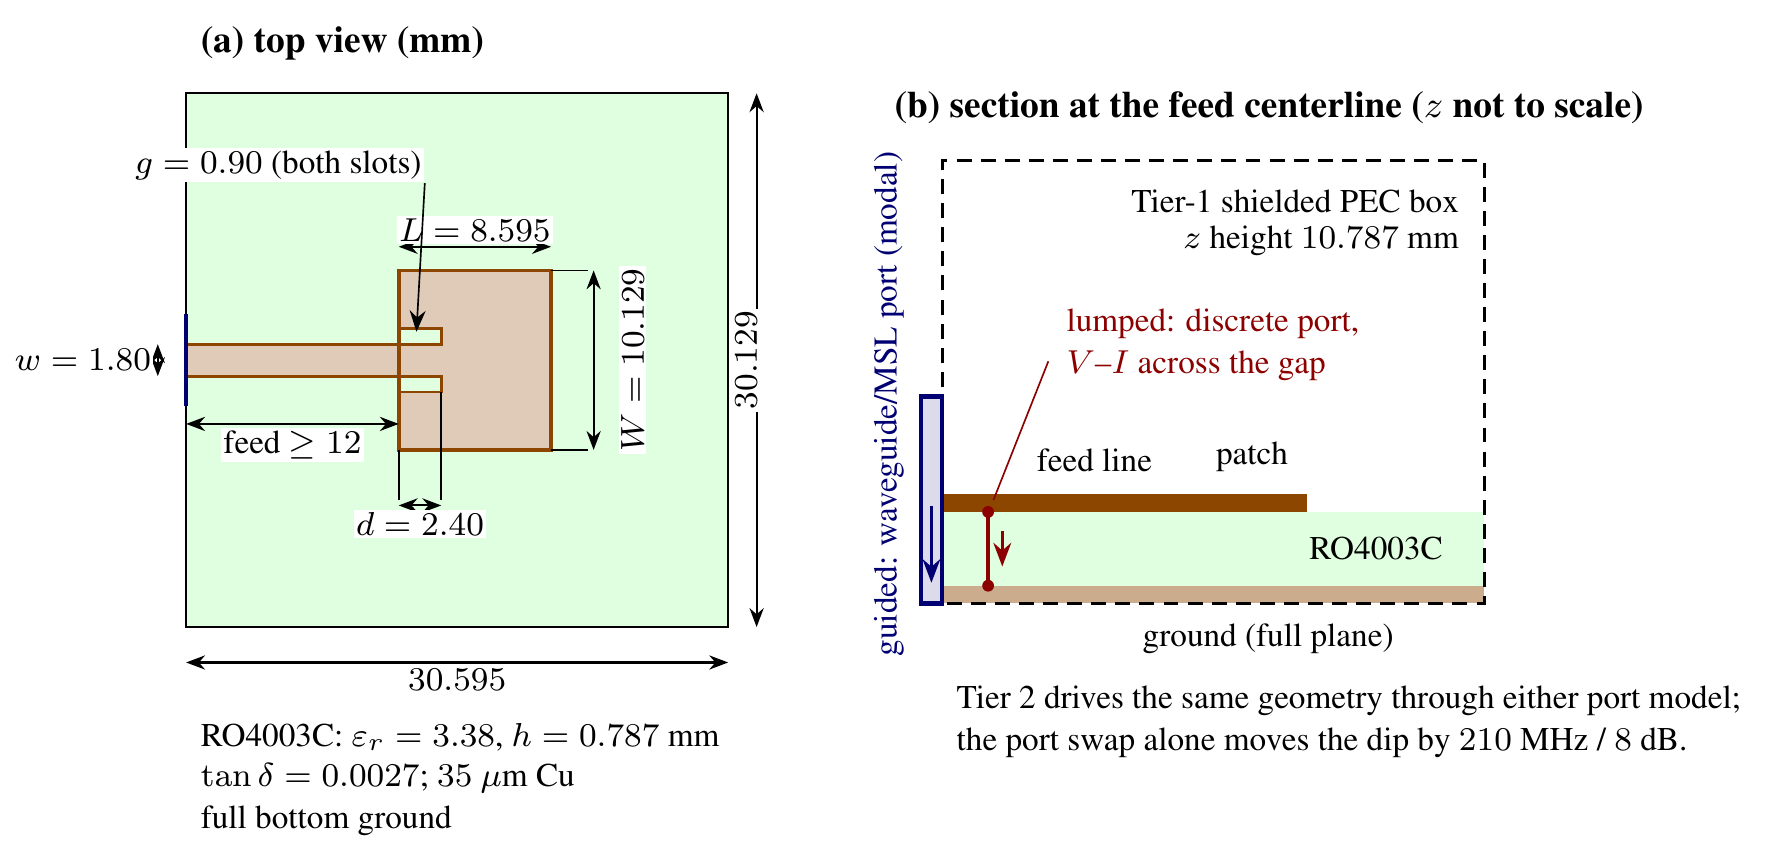
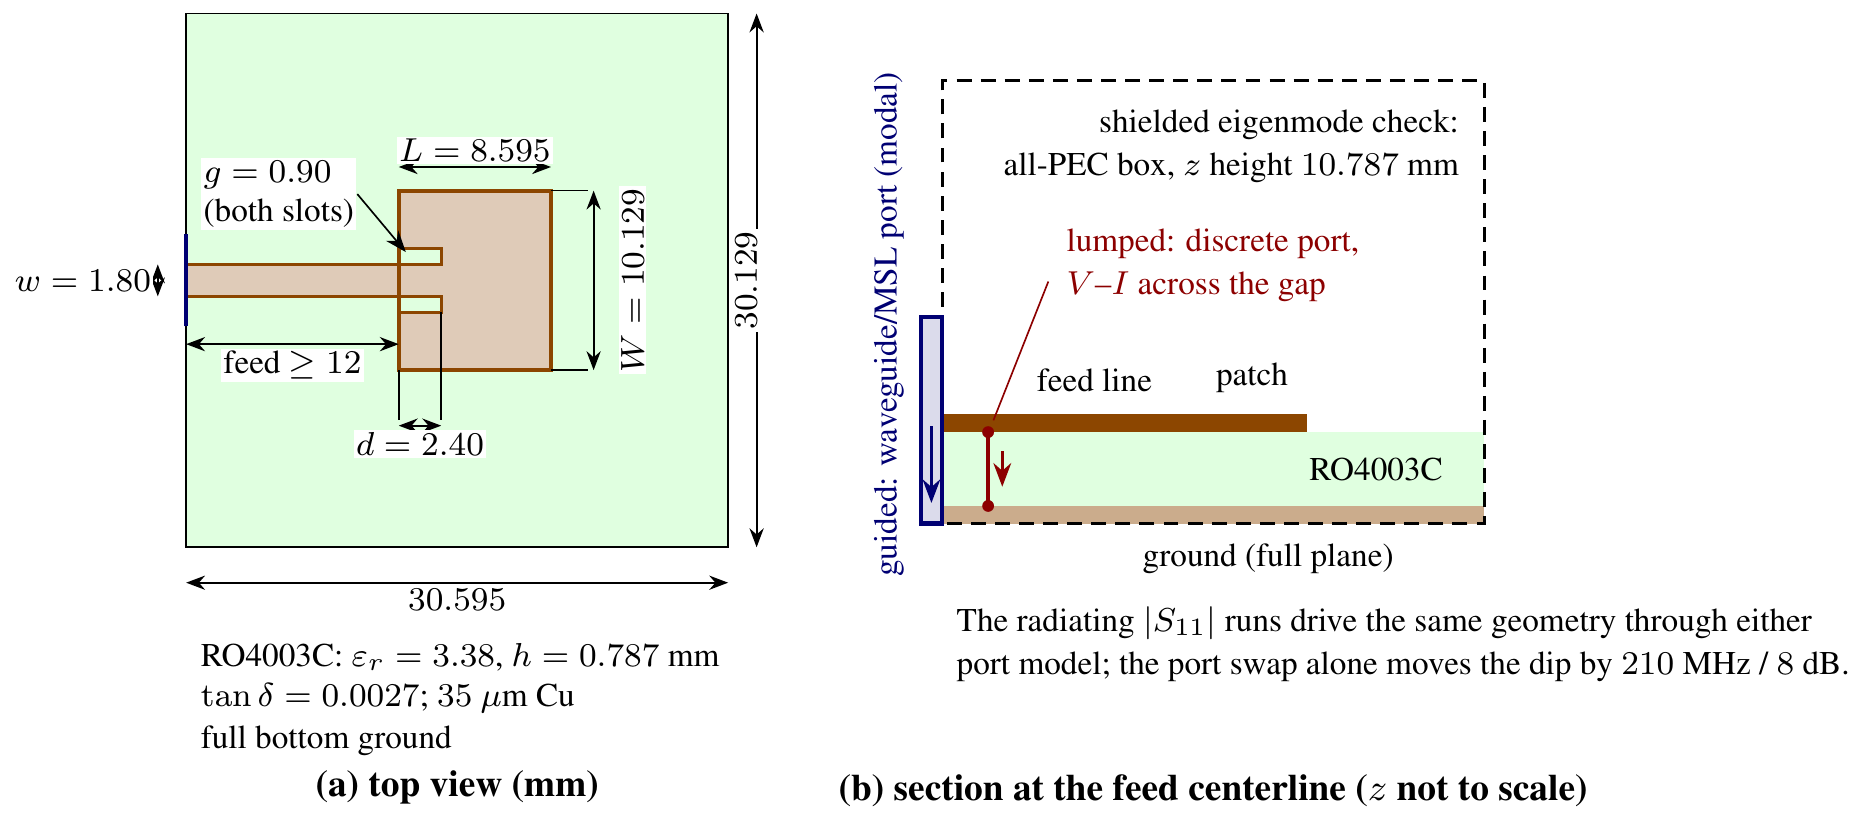
docs(crossval): geometry figure v6 — panel labels below panels, cleaner g callout, self-explanatory port-tier wording (#612)

Changed region(s): [[0.0, 0.0, 0.4355, 0.9676], [0.4666, 0.0936, 0.9955, 0.8739], [0.4355, 0.9364, 0.8399, 0.9676]]

diff --git a/docs/crossval/patch_xband_4solver.md b/docs/crossval/patch_xband_4solver.md
@@ -12,7 +12,7 @@ without access to the other solvers' setups).
 
 ## 1. Geometry (all dimensions mm)
 
-![Geometry and port models of the cross-validation patch (dimensions in mm). Panel (b) marks the two feed models exercised in the Tier-2 port swap: the guided waveguide/MSL port at the board edge and the lumped V-I discrete port across the substrate gap.](figures/patch_xband_geometry_ports.png)
+![Geometry and port models of the cross-validation patch (dimensions in mm). Panel (b) marks the two feed models exercised in the Tier-2 port swap (§4): the guided waveguide/MSL port at the board edge and the lumped V-I discrete port across the substrate gap.](figures/patch_xband_geometry_ports.png)
 
 Substrate: Rogers **RO4003C**, thickness **h = 0.787** (31 mil), nominal
 εr = 3.38, tan δ ≈ 0.0027 @ 10 GHz. 1-oz (35 µm) copper both sides; the
